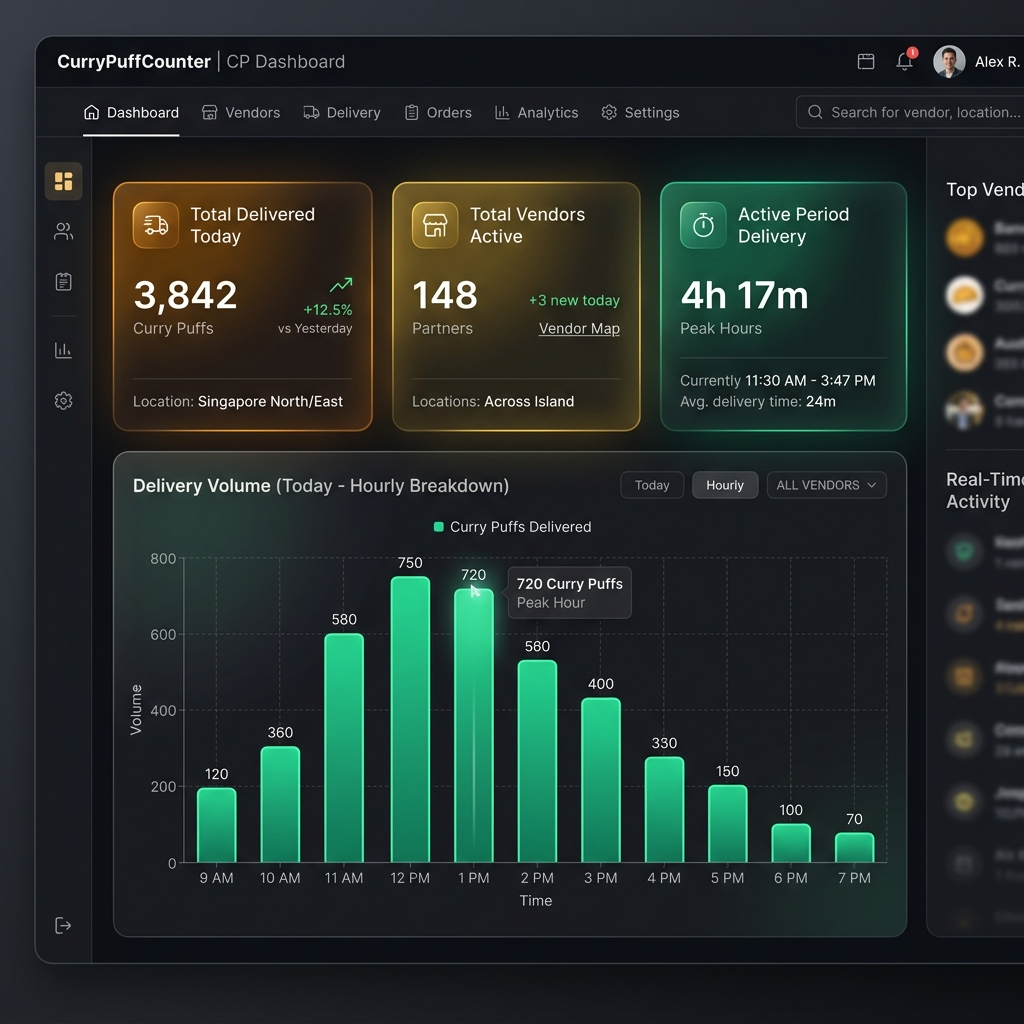
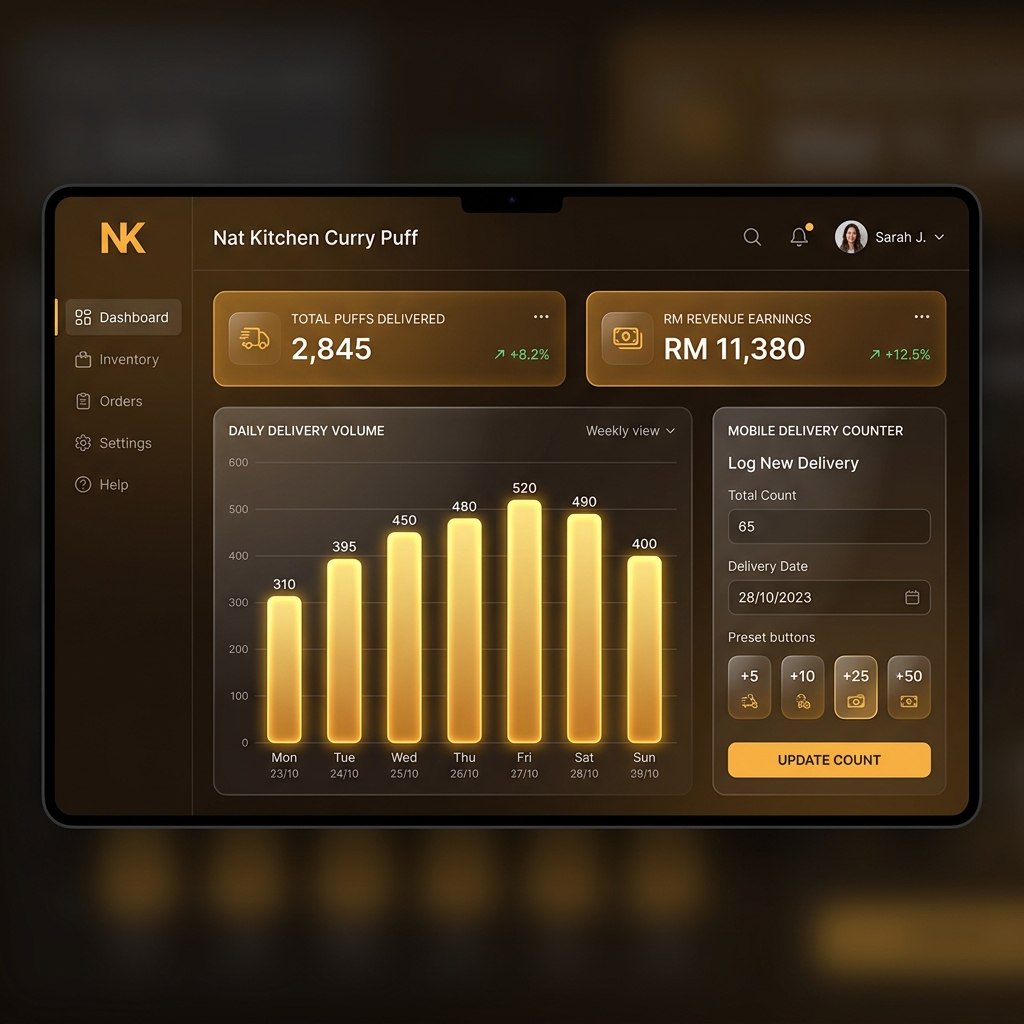
Remove first top screenshot, add dedicated function page screenshots to README

diff --git a/README.md b/README.md
@@ -15,10 +15,6 @@
 
 **Nat Kitchen Curry Puff** is an artisanal bakery and delivery fleet management system engineered to track daily curry puff deliveries, calculate vendor-specific Ringgit Malaysia (RM) revenue earnings, and provide real-time volume analytics on mobile devices and desktop workstations.
 
-<p align="center">
-  <img src="public/dashboard_preview.png" alt="Nat Kitchen Curry Puff Dashboard Preview" width="100%" />
-</p>
-
 ---
 
 ## ✨ Key Features
@@ -45,6 +41,38 @@
 
 - ⚡ **Production Server Configured**:
   - Custom HTTP server (`server.js`) listening on **Port 6000**.
+
+---
+
+## 🖼 Function Pages & Screenshots
+
+### 1. 📊 Dashboard & Delivery Counter (`/dashboard`)
+Mobile-first dashboard displaying daily metrics (total puffs delivered, vendor count, RM revenue), interactive Recharts daily volume chart, and quick-increment counter form.
+
+<p align="center">
+  <img src="public/dashboard_preview.png" alt="Dashboard Page Preview" width="100%" />
+</p>
+
+### 2. 🏪 Vendor Management Page (`/vendors`)
+Manage vendor partner locations, configure custom unit rates (RM) per vendor, and view active partner statistics.
+
+<p align="center">
+  <img src="public/vendors_page_preview.png" alt="Vendors Page Preview" width="100%" />
+</p>
+
+### 3. 📜 Delivery Logs & History Page (`/deliveries`)
+Comprehensive delivery logging history with search, vendor filtering, and real-time revenue subtotal calculations.
+
+<p align="center">
+  <img src="public/deliveries_page_preview.png" alt="Deliveries Logs Preview" width="100%" />
+</p>
+
+### 4. 🔐 Sign In & Registration Pages (`/login`, `/register`)
+Secure authentication suite with bcrypt password hashing and HttpOnly JWT cookie sessions.
+
+<p align="center">
+  <img src="public/auth_login_preview.png" alt="Sign In Page Preview" width="100%" />
+</p>
 
 ---
 
@@ -189,7 +217,10 @@ currypuffcounter/
 │   └── clean.js              # Database cleanup script
 ├── public/
 │   ├── logo.png                  # Nat Kitchen Curry Puff mascot logo
-│   └── dashboard_preview.png     # Dashboard & analytics UI screenshot
+│   ├── dashboard_preview.png     # Dashboard & analytics UI screenshot
+│   ├── vendors_page_preview.png   # Vendor management UI screenshot
+│   ├── deliveries_page_preview.png # Delivery logs history UI screenshot
+│   └── auth_login_preview.png    # User sign-in interface screenshot
 ├── ecosystem.config.js       # PM2 process manager configuration file
 ├── currypuffcounter.service  # Linux systemd service unit file
 ├── server.js                 # Custom HTTP server on port 6000
